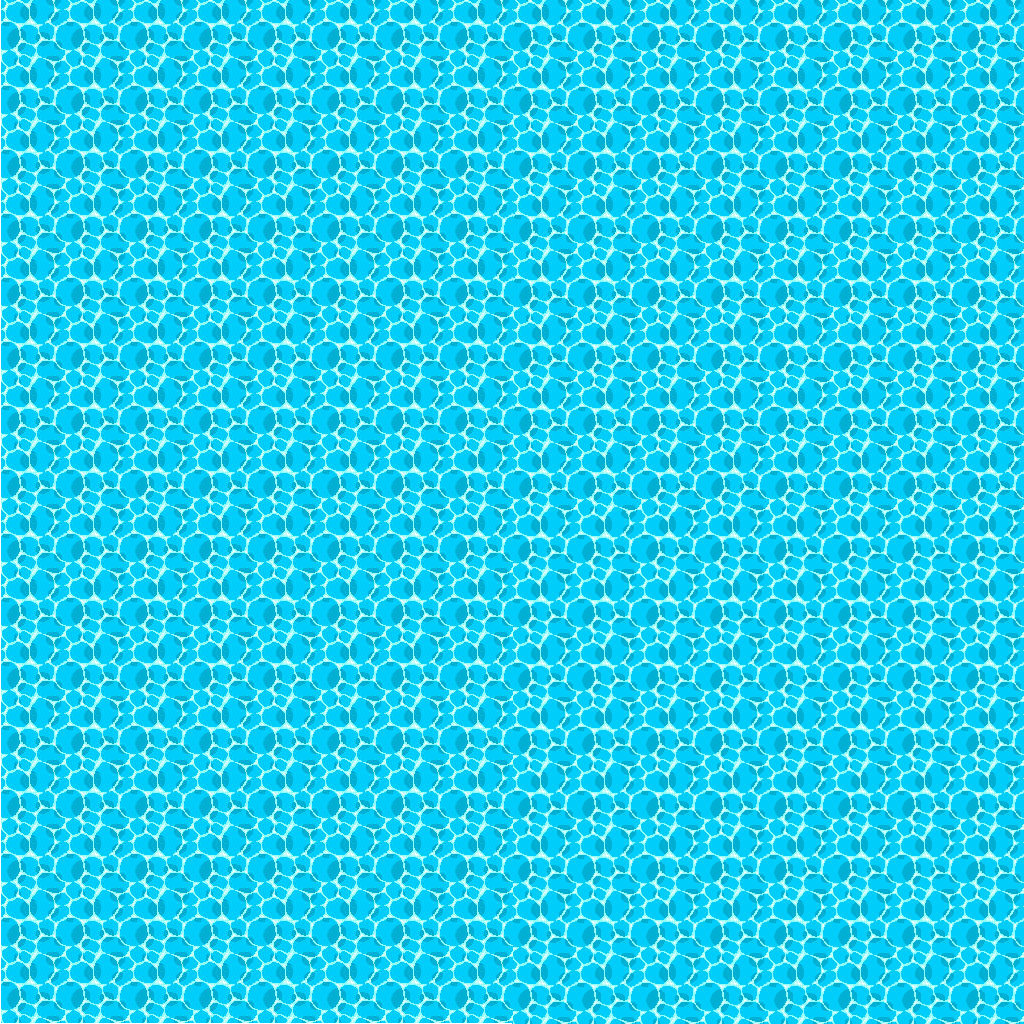
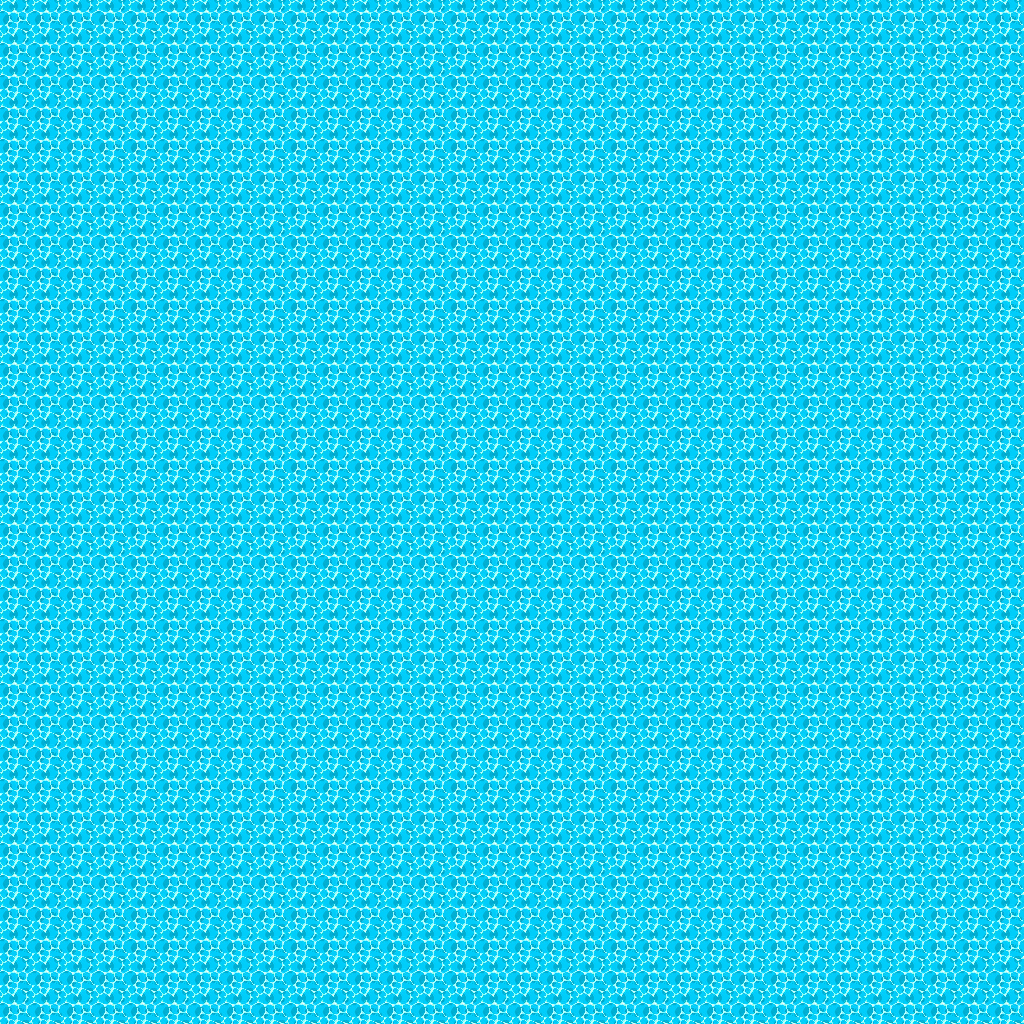
Añadido el Fondo del Juego y ajustado el Minimapa

diff --git a/core/src/dg/main/MainScreen.java b/core/src/dg/main/MainScreen.java
@@ -13,6 +13,9 @@ import java.util.logging.Logger;
 
 import com.badlogic.gdx.Gdx;
 import com.badlogic.gdx.Input;
+import com.badlogic.gdx.graphics.Texture;
+import com.badlogic.gdx.graphics.g2d.SpriteBatch;
+import com.badlogic.gdx.graphics.g2d.TextureRegion;
 import com.badlogic.gdx.math.Vector2;
 import com.badlogic.gdx.scenes.scene2d.Stage;
 import com.badlogic.gdx.scenes.scene2d.ui.Skin;
@@ -253,6 +256,8 @@ public class MainScreen extends FormatoMenus{
 	@Override
 	public void render(float delta) {
 		ScreenUtils.clear(0.0f, 0.5f, 1f,0); //Necesario para updatear correctamente la pantalla
+		
+		dibujarFondo();
 		//Control de teclas
 		
 		if(Gdx.input.isKeyPressed(Input.Keys.R))
@@ -372,9 +377,7 @@ public class MainScreen extends FormatoMenus{
 		barcosEnemigos.forEach(v->v.dibujar());
 		islaList.forEach(v->v.dibujar());
 		
-		//Minimapa
-		MiniMapa.mapaRenderer();
-		MiniMapa.setPosBarco(barco);
+		
 		
 		//TODO Prueba de lineas
 		
@@ -412,6 +415,9 @@ public class MainScreen extends FormatoMenus{
 			barcosAltaMar();
 		}
 		
+		//Minimapa
+		MiniMapa.mapaRenderer();
+		MiniMapa.setPosBarco(barco);
 		//stage.draw();
 		
 	}
@@ -438,6 +444,18 @@ public class MainScreen extends FormatoMenus{
 		}
 	}
 
+	private SpriteBatch sb = new SpriteBatch();
+	private Texture fondo = new Texture("FondoJuego.png");
+	private TextureRegion tr = new TextureRegion(fondo);
+	public void dibujarFondo() {
+		sb.begin();
+		
+		//Hay doble render para cubrir bien la pantalla, ya que sino era facil salirse de la imagen del fondo
+		//Plan se veia donde acababa la imagen 
+		sb.draw(tr, -512 - (barco.getX() % 512), -512 - (barco.getY() % 512), 0, 0, 1024, 1024, 2, 2, 0);
+		sb.draw(tr, 512 - (barco.getX() % 512), -512 - (barco.getY() % 512), 0, 0, 1024, 1024, 2, 2, 0);
+		sb.end();
+	}
 
 	@Override
 	public void resize(int width, int height) {

diff --git a/core/src/objetos/MiniMapa.java b/core/src/objetos/MiniMapa.java
@@ -21,7 +21,7 @@ public class MiniMapa {
 	private static float barcoX;
 	private static float barcoY;
 	private static ShapeRenderer srB =  new ShapeRenderer();
-	
+	private static ShapeRenderer srF = new ShapeRenderer();
 	private static ShapeRenderer srIL = new ShapeRenderer(); //Isla Liberada
 	private static ShapeRenderer srIO = new ShapeRenderer(); //Isla Ocupada
 	
@@ -41,6 +41,7 @@ public class MiniMapa {
 		srB.setColor(Color.BROWN);
 		srIL.setColor(Color.GREEN);
 		srIO.setColor(Color.RED);
+		srF.setColor(Color.BLUE);
 	}
 	
 	public static void setPosBarco(Barco barco) {
@@ -75,10 +76,14 @@ public class MiniMapa {
 		srB.begin(ShapeRenderer.ShapeType.Filled);
 		srIL.begin(ShapeRenderer.ShapeType.Filled);
 		srIO.begin(ShapeRenderer.ShapeType.Filled);
+		srF.begin(ShapeRenderer.ShapeType.Filled);
+		
+		srF.box(Gdx.graphics.getWidth() - 200, 10, 0, 190, 190, 0);
 		
 	    
-	    srB.setColor(Color.BROWN);
+	    
 	    srB.circle(Gdx.graphics.getWidth() - 100 + barcoX, 100 + barcoY, 2);
+	    
 	    for(int i = 0; i< listaIslasEstado.size(); i++) {
 	    	if(listaIslasEstado.get(i)) {
 	    		srIL.circle(Gdx.graphics.getWidth() - 100 + listaIslas.get(2* i), 100 + listaIslas.get(2*i+1), 2);
@@ -86,14 +91,17 @@ public class MiniMapa {
 	    		srIO.circle(Gdx.graphics.getWidth() - 100 + listaIslas.get(2* i), 100 +listaIslas.get(2*i+1), 2);
 	    	}
 	    }
+	    
+	    
 	    TextureRegion b = new TextureRegion(new Texture("marco.png"));
 	   // En orden, textura, x, y, CentroX, CentroY, Anchura, Altura, EscalaX, EscalaY, Angulo (En grados)
 	    sb.draw(b, Gdx.graphics.getWidth() - 210, 0, 105,105, 210, 210, 1, 1, 0);
 	    sb.end();
+	    srF.end();
 	    srIL.end();
 	    srIO.end();
-	
 	    srB.end();
+	    
 	}
 
 }
